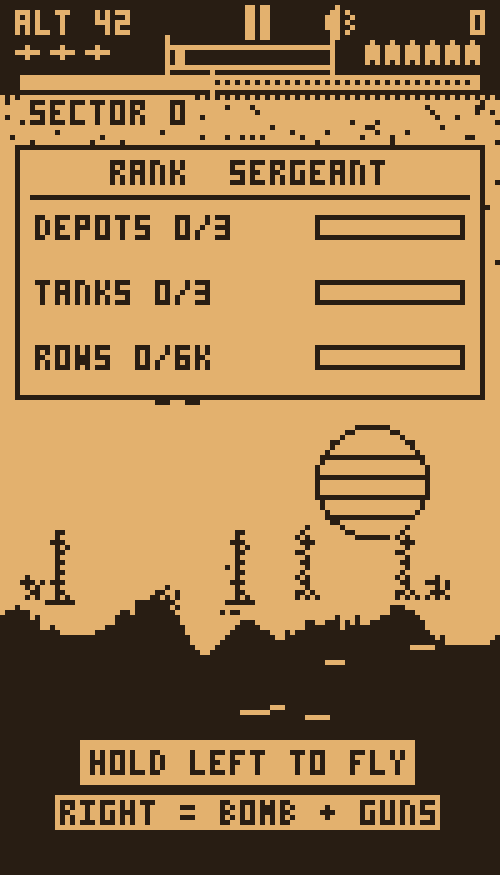
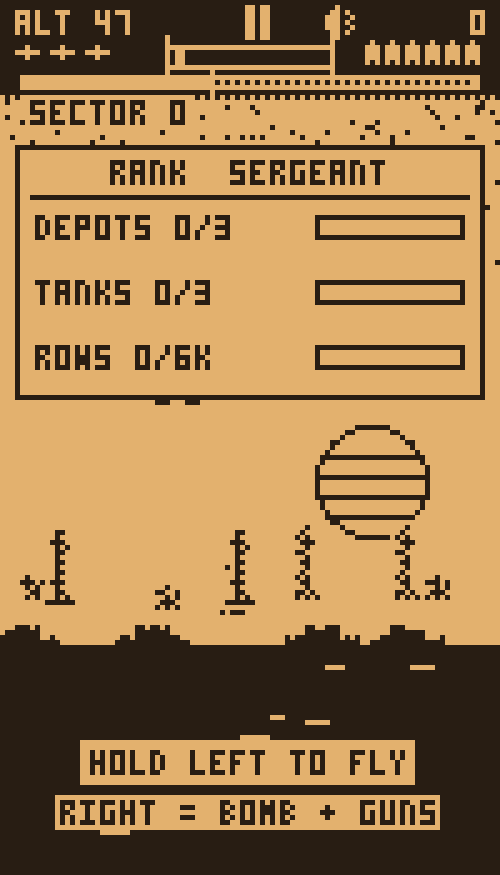
Tier R: the sortie arc, located damage, a spendable multiplier

diff --git a/tools/FrameDump.kt b/tools/FrameDump.kt
@@ -203,6 +203,66 @@ object FrameDump {
             if (!shot) println("frameF SKIPPED - no capture in 8 sorties")
         }
 
+        // ---- G/H/I  the return leg, the turn, and the landing card -------
+        // One shared pilot, the same approach profile Audit A26 proves can
+        // get home, and a retry across sorties: a single sortie is not
+        // guaranteed to produce any given state, and a dumper that waits
+        // forever for one hangs the whole run.
+        run {
+            fun flyApproach(sim: Sim, onTick: (Sim) -> Unit): Boolean {
+                var t = 0
+                while (t < 20000 && !sim.gameOver) {
+                    val toStrip = (sim.planeWorldX() - sim.baseX).toFloat()
+                    if (sim.leg == LEG_HOME && toStrip < Tune.HOME_SAFE) {
+                        val want = if (toStrip > Tune.LAND_ZONE) 24f else 7f
+                        sim.climbing = sim.altitude() < want
+                    } else TestPilot.cruise(sim, 2f)
+                    sim.firing = true
+                    if (t % 150 == 0) sim.dropBomb()
+                    sim.update(1f); t++
+                    onTick(sim)
+                }
+                return sim.landed
+            }
+
+            val store = MemStore()
+            var gotG = false; var gotH = false; var gotI = false
+            for (att in 0 until 12) {
+                val sim = Sim(store)
+                sim.dismissBriefing(); sim.start()
+                var shotH = false; var shotG = false
+                val landedNow = flyApproach(sim) { s ->
+                    if (!gotH && !shotH && s.turnFlash > 0f &&
+                        s.turnFlash < Tune.TURN_FLASH * 0.85f) {
+                        r.render(s)
+                        write(r, r.palette(s.phase()), "$dir/fH_turn.ppm")
+                        println("frameH turn at x=" + s.planeWorldX().toInt())
+                        shotH = true; gotH = true
+                    }
+                    if (!gotG && !shotG && s.leg == LEG_HOME && s.damageCount() >= 1 &&
+                        s.pending > 0 && s.turnFlash <= 0f) {
+                        r.render(s)
+                        write(r, r.palette(s.phase()), "$dir/fG_homebound.ppm")
+                        println("frameG homebound dir=" + s.dir + " damage=" +
+                            s.damageCount() + " atRisk=" + s.pending)
+                        shotG = true; gotG = true
+                    }
+                }
+                if (landedNow && !gotI) {
+                    var g = 0
+                    while (!sim.canRestart() && g < 600) { sim.update(1f); g++ }
+                    r.render(sim)
+                    write(r, r.palette(sim.phase()), "$dir/fI_landed.ppm")
+                    println("frameI LANDED score=" + sim.score +
+                        " front+" + sim.frontMoved.toInt())
+                    gotI = true
+                }
+                if (gotG && gotH && gotI) break
+            }
+            if (!gotG) println("frameG SKIPPED")
+            if (!gotI) println("frameI SKIPPED - nothing landed in 12 sorties")
+        }
+
         // ---- 3  night, caught in a searchlight ----------------------------
         run {
             val sim = Sim(MemStore())

diff --git a/app/src/main/java/com/dawnpatrol/game/Sim.kt b/app/src/main/java/com/dawnpatrol/game/Sim.kt
@@ -630,8 +630,33 @@ class Sim(private val store: Store) {
 
     fun trenches(): List<Pair<Double, UInt>> = trenchBuf
 
-    fun groundAt(worldX: Double): Float =
-        World.surfaceY(worldX, trenchBuf).toFloat()
+    /**
+     * The surface, with the aerodrome levelled.
+     *
+     * The generator rolls the ground +/-5 rows, and a landing that needs
+     * altitude <= LAND_ALT and a gentle sink at the same moment is luck on
+     * terrain like that - the frame dumper kept writing LANDED=false,
+     * CAUSE=GROUND. Real aerodromes are flat, so the strip is flat, with a
+     * 40-row blend at each end so A5's "no step over 2 rows per column"
+     * still holds.
+     */
+    fun groundAt(worldX: Double): Float {
+        val raw = World.surfaceY(worldX, trenchBuf).toFloat()
+        if (endless) return raw
+        val lo = baseX - Tune.GOAROUND_OVERSHOOT - Tune.STRIP_BLEND
+        val hi = baseX + Tune.LAND_ZONE + Tune.STRIP_BLEND
+        if (worldX < lo || worldX > hi) return raw
+        val flat = World.surfaceY(baseX, trenchBuf).toFloat()
+        // full flat over the strip, easing out across the blend
+        val d = when {
+            worldX < baseX - Tune.GOAROUND_OVERSHOOT ->
+                ((baseX - Tune.GOAROUND_OVERSHOOT) - worldX).toFloat() / Tune.STRIP_BLEND
+            worldX > baseX + Tune.LAND_ZONE ->
+                (worldX - (baseX + Tune.LAND_ZONE)).toFloat() / Tune.STRIP_BLEND
+            else -> 0f
+        }.coerceIn(0f, 1f)
+        return flat + (raw - flat) * d
+    }
 
     fun slotKeyAt(worldX: Double): Int = World.cell(worldX, Art.SLOT_W.toDouble())
 
@@ -805,6 +830,12 @@ class Sim(private val store: Store) {
         if (chainFlash > 0f) chainFlash = max(0f, chainFlash - dt)
         if (sectorFlash > 0f) sectorFlash = max(0f, sectorFlash - dt)
         if (grazeFlash > 0f) grazeFlash = max(0f, grazeFlash - dt)
+        // These two shipped without decay for a while: the TURN FOR HOME
+        // banner would have sat on the screen for the rest of the sortie.
+        // The frame dumper found it by never matching "banner is partway
+        // through fading", which is a better bug report than a screenshot.
+        if (turnFlash > 0f) turnFlash = max(0f, turnFlash - dt)
+        if (landFlash > 0f) landFlash = max(0f, landFlash - dt)
 
         // ---- greed meter --------------------------------------------------
         if (altitude() < Tune.LOW_ALT) {

diff --git a/tools/Audit.kt b/tools/Audit.kt
@@ -857,20 +857,32 @@ object Audit {
             !fresh.paused, "")
 
         // ---- the world really does stop -----------------------------------
-        val s = Sim(MemStore())
-        s.dismissBriefing(); s.start()
-        var i = 0
-        // fly until there is plenty in the air to freeze
-        while (i < 40000 && !(s.shots.count { it.alive && it.kind == K_SHELL } >= 1 &&
-                s.shots.count { it.alive } >= 3 &&
-                s.enemies.any { it.alive } && !s.gameOver)) {
-            // LOW, deliberately: TestPilot cruises above the flak envelope,
-            // and a state with no shell in the air proves nothing here.
-            s.climbing = s.altitude() < 26f
-            s.firing = true
-            if (i % 150 == 0) s.dropBomb()
-            s.update(1f); i++
+        // Search ACROSS sorties. A sortie now ends when the aeroplane
+        // LANDS, not only when it is shot down, so a single run can finish
+        // with an empty sky and the search would report there was nothing
+        // to freeze.
+        val busyStore = MemStore()
+        var found: Sim? = null
+        for (attempt in 0 until 12) {
+            val a = Sim(busyStore)
+            a.dismissBriefing(); a.start()
+            var j = 0
+            while (j < 40000 && !a.gameOver) {
+                // LOW, deliberately: TestPilot cruises above the flak
+                // envelope, and a state with no shell in the air proves
+                // nothing here.
+                a.climbing = a.altitude() < 26f
+                a.firing = true
+                if (j % 150 == 0) a.dropBomb()
+                a.update(1f); j++
+                if (a.shots.count { it.alive && it.kind == K_SHELL } >= 1 &&
+                    a.shots.count { it.alive } >= 3 && a.enemies.any { it.alive }) break
+            }
+            if (!a.gameOver && a.shots.any { it.alive && it.kind == K_SHELL }) {
+                found = a; break
+            }
         }
+        val s = found ?: Sim(busyStore).also { it.dismissBriefing(); it.start() }
         check("A20 reached a busy state to freeze",
             !s.gameOver && s.shots.any { it.alive && it.kind == K_SHELL },
             "${s.shots.count { it.alive }} shots in the air " +

diff --git a/app/src/main/java/com/dawnpatrol/game/Tune.kt b/app/src/main/java/com/dawnpatrol/game/Tune.kt
@@ -148,7 +148,8 @@ object Tune {
     // targets at all and the front stopped advancing - Audit A22.)
     const val SORTIE_LEN = 1200f      // rows out to the objective
     const val LAND_SPEED = 0.52f      // rows/tick, max sink on touchdown
-    const val LAND_ALT = 7f           // rows above ground that counts as down
+    const val LAND_ALT = 10f          // rows above ground that counts as down
+    const val STRIP_BLEND = 40f       // rows of easing either side of the flat
     // Base is a STRIP, not a point. As a point, a pilot arriving high or
     // fast sailed over it and flew west forever with no way back - Audit
     // A26 landed 0 of 10. A strip you can line up on, and a go-around if
